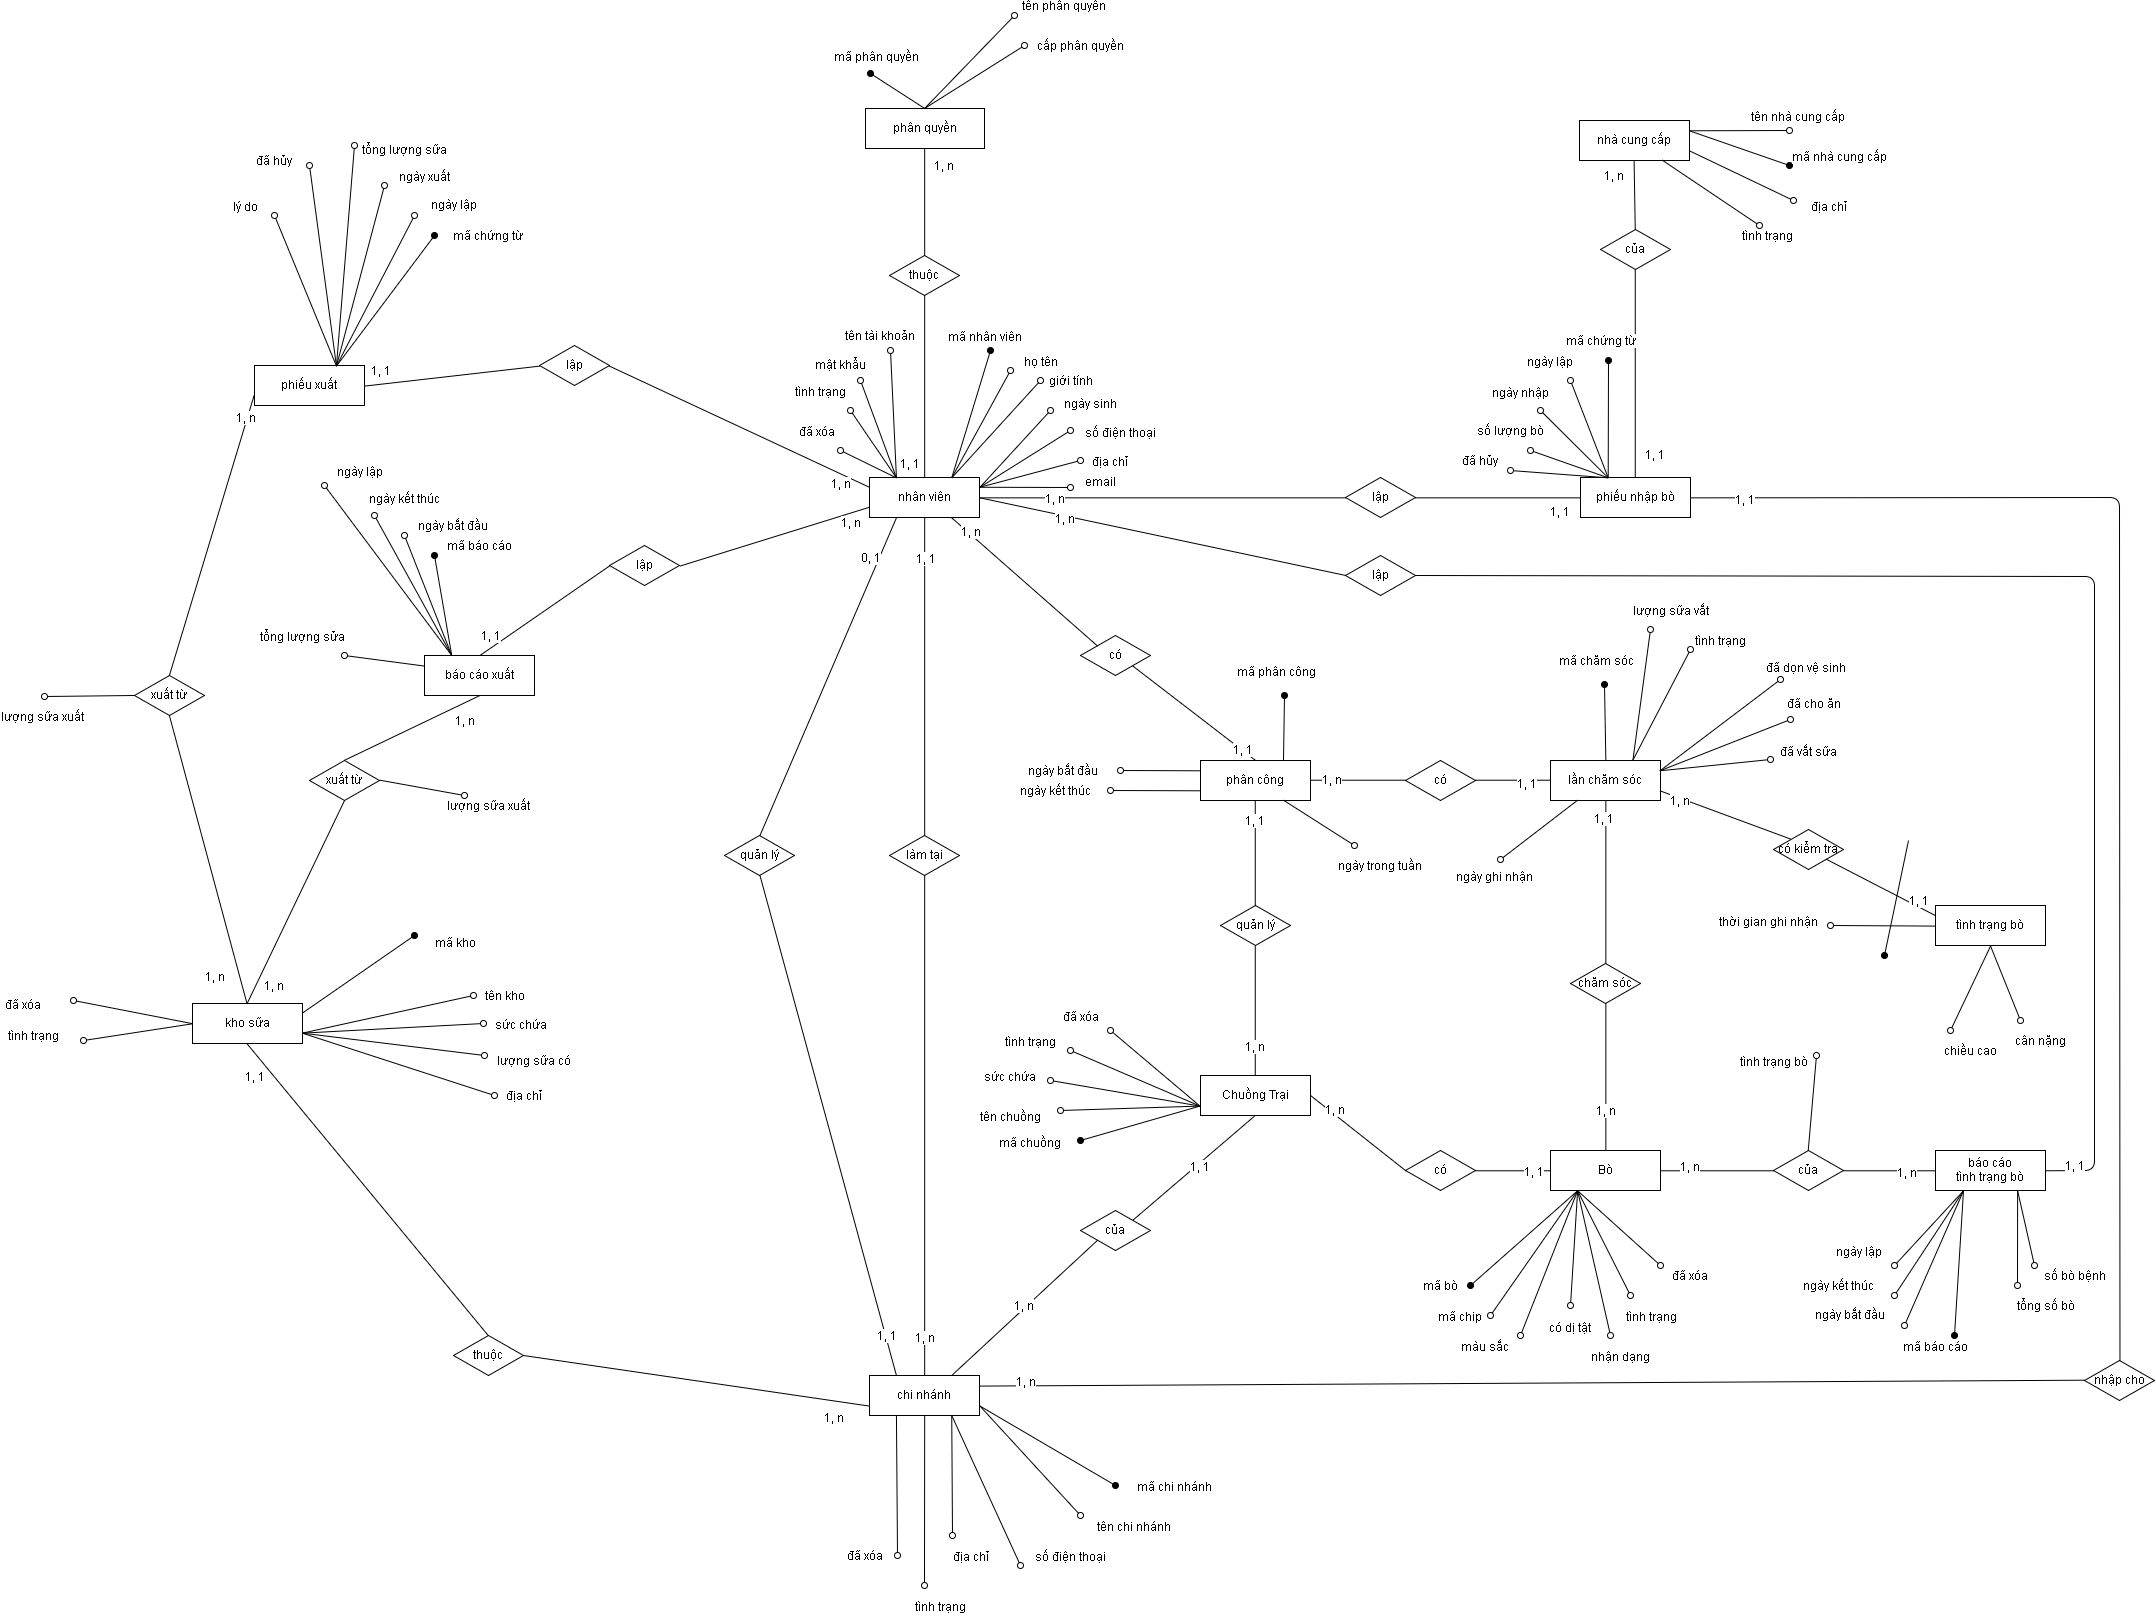
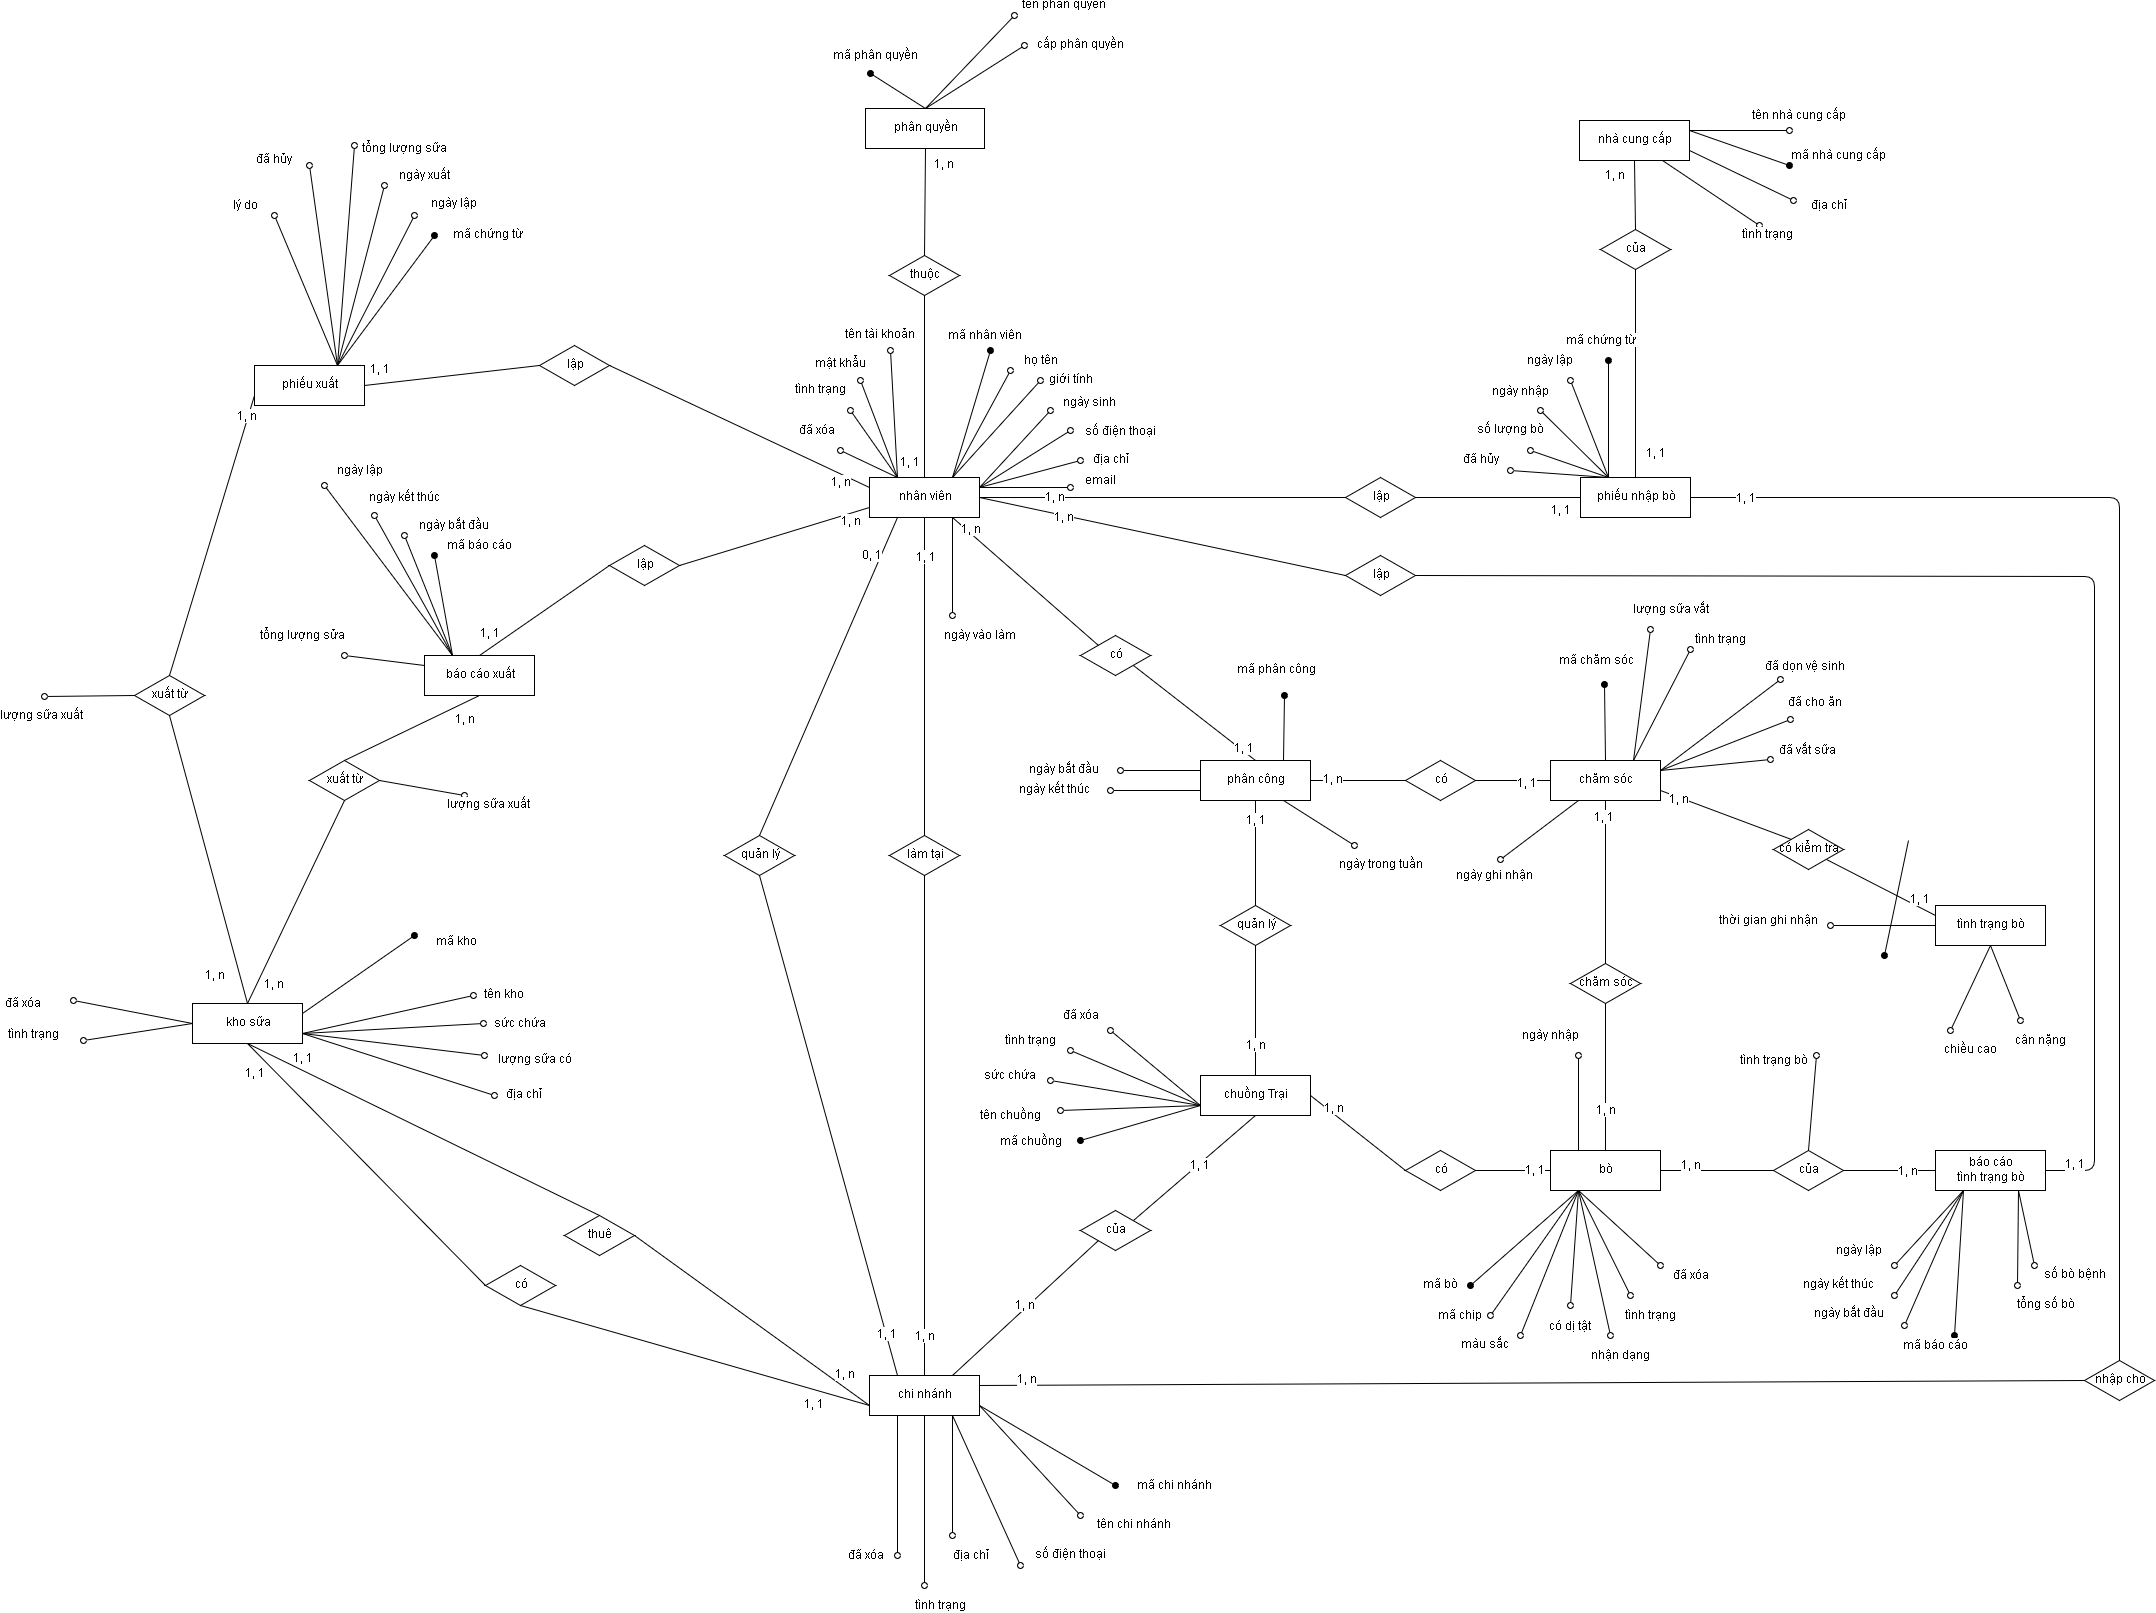
update ER

diff --git a/BackEnd/Service_Management/src/java/DAO/NhanVienAdapter.java b/BackEnd/Service_Management/src/java/DAO/NhanVienAdapter.java
@@ -8,6 +8,7 @@ package DAO;
 import Models.Other.ChangePasswordRequest;
 import Ultility.HibernateUtil;
 import Ultility.Security;
+import java.util.Date;
 import java.util.List;
 import pojos.*;
 
@@ -59,6 +60,7 @@ public class NhanVienAdapter {
 
     public static boolean addNhanVien(Nhanvien obj) {
         getNewID(obj);
+        obj.setNgayvaolam(new Date());
         obj.setMaphanquyen("PQ001");
         obj.setDaxoa(false);
         obj.setTentaikhoan(obj.getEmail());
@@ -100,15 +102,16 @@ public class NhanVienAdapter {
     
      public static String addManager(Nhanvien obj) {
         getNewID(obj);
+        obj.setNgayvaolam(new Date());
         obj.setMaphanquyen("PQ002");
         obj.setDaxoa(false);
         obj.setTentaikhoan(obj.getEmail());
         obj.setMatkhau(Security.Encrypt(obj.getTentaikhoan()));
         if(HibernateUtil.save(obj))
         {
-            return obj.getManhanvien().toString();
+            return obj.getManhanvien();
         }
-        return "false";  
+        return null;  
     }
     
     public static boolean  updateRole(Nhanvien obj) {

diff --git a/BackEnd/Service_AnimalCare/Service/Controllers/PhanCongAPIController.cs b/BackEnd/Service_AnimalCare/Service/Controllers/PhanCongAPIController.cs
@@ -118,13 +118,12 @@ namespace Service.Controllers
         [Route("getListAssignmentsOfEmployeer")]
         public HttpResponseMessage GetAllFromNhanVien([FromBody] PhanCongRequest request)
         {
-            var response = new PhanCongResponse(); 
-
-            if (BusinessHandler.TokenBUS.tokenCheck(request, response, 1))
+            var response = new PhanCongResponse();
+            TokenData tkdata = BusinessHandler.TokenBUS.tokenData(request, response, 1);
+            if (tkdata != null)
             {
                 try
                 {
-                    TokenData tkdata = BusinessHandler.TokenBUS.tokenData(request, response, 1);
                     request.Data = new PhanCong();
                     request.Data.MaNV = tkdata.UserId;
                     BusinessHandler.PhanCongBUS.GetAllFromNhanVien(request, ref response);

diff --git a/BackEnd/Service_Management/src/java/Services/NhanVienAPIs.java b/BackEnd/Service_Management/src/java/Services/NhanVienAPIs.java
@@ -249,7 +249,7 @@ public class NhanVienAPIs {
             //if (NhanVienBUS.validateInformation(request, response, "add")) {
                 try {
                     String id = NhanVienAdapter.addManager(request.Data);
-                    if (!id.equals("false")) {
+                    if (id != null) {
                         //NhanVienBUS.sync(1, request.Data);
                         response.Data = id;
                     } else {

diff --git a/BackEnd/Service_Management/src/java/DAO/BoAdapter.java b/BackEnd/Service_Management/src/java/DAO/BoAdapter.java
@@ -6,6 +6,7 @@
 package DAO;
 
 import Ultility.HibernateUtil;
+import java.util.Date;
 import java.util.List;
 import pojos.Bo;
 
@@ -38,6 +39,7 @@ public class BoAdapter {
     
     public static boolean add(Bo obj) {
         getNewID(obj);
+        obj.setNgaynhan(new Date());
         obj.setDaxoa(false);
         obj.setTinhtrang("Khỏe mạnh.");
         return HibernateUtil.save(obj);
